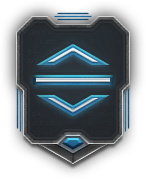
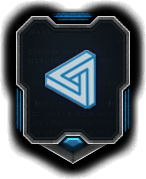
updated tier system

diff --git a/src/components/AirDrop/Tiers.tsx b/src/components/AirDrop/Tiers.tsx
@@ -20,13 +20,6 @@ import Tier7 from '../../assets/airdrop/arb_airdrop/Tier_7.png'
 import Tier8 from '../../assets/airdrop/arb_airdrop/Tier_8.png'
 import Tier9 from '../../assets/airdrop/arb_airdrop/Tier_9.png'
 import Tier10 from '../../assets/airdrop/arb_airdrop/Tier_10.png'
-import Tier11 from '../../assets/airdrop/arb_airdrop/Tier_11.png'
-import Tier12 from '../../assets/airdrop/arb_airdrop/Tier_12.png'
-import Tier13 from '../../assets/airdrop/arb_airdrop/Tier_13.png'
-import Tier14 from '../../assets/airdrop/arb_airdrop/Tier_14.png'
-import Tier15 from '../../assets/airdrop/arb_airdrop/Tier_15.png'
-import Tier16 from '../../assets/airdrop/arb_airdrop/Tier_16.png'
-import Tier17 from '../../assets/airdrop/arb_airdrop/Tier_17.png'
 
 const PointsEarnedWrapper = styled.div<{ blur?: boolean }>`
   width: fit-content;
@@ -101,6 +94,43 @@ const Tiers = () => {
   const prevData = useStoredData(addresses)
   const isArb = SupportedChainId.ARBITRUM_ONE === chainId
 
+  function SelectTier(numOfUsers: number, index: number) {
+    const tier1 = numOfUsers
+    const tier2 = Math.round(numOfUsers * 0.5)
+    const tier3 = numOfUsers - Math.round(numOfUsers * 0.6)
+    const tier4 = numOfUsers - Math.round(numOfUsers * 0.7)
+    const tier5 = numOfUsers - Math.round(numOfUsers * 0.8)
+    const tier6 = numOfUsers - Math.round(numOfUsers * 0.85)
+    const tier7 = numOfUsers - Math.round(numOfUsers * 0.9)
+    const tier8 = numOfUsers - Math.round(numOfUsers * 0.94)
+    const tier9 = numOfUsers - Math.round(numOfUsers * 0.97)
+    const tier10 = numOfUsers - Math.round(numOfUsers * 0.99)
+
+    if (index <= tier1 && index > tier2) {
+      return 1
+    } else if (index <= tier2 && index > tier3) {
+      return 2
+    } else if (index <= tier3 && index > tier4) {
+      return 3
+    } else if (index <= tier4 && index > tier5) {
+      return 4
+    } else if (index <= tier5 && index > tier6) {
+      return 5
+    } else if (index <= tier6 && index > tier7) {
+      return 6
+    } else if (index <= tier7 && index > tier8) {
+      return 7
+    } else if (index <= tier8 && index > tier9) {
+      return 8
+    } else if (index <= tier9 && index > tier10) {
+      return 9
+    } else if (index <= tier10) {
+      return 10
+    } else {
+      return 0
+    }
+  }
+
   const userData = useMemo(() => {
     if (!prevData || !chainId || !account) {
       return undefined
@@ -108,39 +138,26 @@ const Tiers = () => {
       //   setLoading(false)
       //   return prevData
     } else {
+      const totalUsers = prevData.length
+
       return prevData
         .filter((obj: any, index: any) => {
           return index === prevData.findIndex((o: any) => obj.trader === o.trader)
         })
         .sort((a: any, b: any) => b.totalPoints - a.totalPoints)
         .map((user: any, index: number) => {
+          const finalTier = SelectTier(totalUsers, index)
           return {
             ...user,
             rank: index + 1,
+            tier: finalTier,
           }
         })
         .find((user: any) => user.trader === account)
     }
   }, [prevData, chainId, account])
-  const tiers = [
-    Tier1,
-    Tier2,
-    Tier3,
-    Tier4,
-    Tier5,
-    Tier6,
-    Tier7,
-    Tier8,
-    Tier9,
-    Tier10,
-    Tier11,
-    Tier12,
-    Tier13,
-    Tier14,
-    Tier15,
-    Tier16,
-    Tier17,
-  ]
+
+  const tiers = [Tier1, Tier2, Tier3, Tier4, Tier5, Tier6, Tier7, Tier8, Tier9, Tier10]
 
   const userTier = useMemo(() => {
     if (!userData) return 0
@@ -150,7 +167,7 @@ const Tiers = () => {
     if (userData.totalPoints > 1000 && userData.totalPoints < 17000) {
       return Number(userData.totalPoints.toString().substring(0, 1))
     } else {
-      return 17
+      return 10
     }
   }, [userData])
 
@@ -163,6 +180,34 @@ const Tiers = () => {
     },
     [selectChain]
   )
+
+  function TopPercentage(tier: number | undefined) {
+    if (!tier) return 0
+    else if (tier === 1) {
+      return 100
+    } else if (tier === 2) {
+      return 50
+    } else if (tier === 3) {
+      return 40
+    } else if (tier === 4) {
+      return 30
+    } else if (tier === 5) {
+      return 20
+    } else if (tier === 6) {
+      return 15
+    } else if (tier === 7) {
+      return 10
+    } else if (tier === 8) {
+      return 6
+    } else if (tier === 9) {
+      return 3
+    } else if (tier === 10) {
+      return 1
+    } else {
+      return 0
+    }
+  }
+
   return (
     <TierWrapper>
       <TierIncorrectChain active={!isArb}>
@@ -171,19 +216,22 @@ const Tiers = () => {
       </TierIncorrectChain>
       <RowStart marginLeft={'5rem'}>
         <ThemedText.MediumHeader fontSize={16} fontWeight={700}>
-          Tier: {userTier}
+          Tier: {userData?.tier}
         </ThemedText.MediumHeader>
         <ThemedText.MediumHeader fontSize={16} fontWeight={700}>
           LMT Rank: {userData?.rank}
         </ThemedText.MediumHeader>
-        <ThemedText.MediumHeader fontSize={16} fontWeight={700}>
+        {/* <ThemedText.MediumHeader fontSize={16} fontWeight={700}>
           Total LMT: {userData?.totalPoints}
+        </ThemedText.MediumHeader> */}
+        <ThemedText.MediumHeader fontSize={16} fontWeight={700}>
+          My Percentage: Top {TopPercentage(userData?.tier)} %
         </ThemedText.MediumHeader>
       </RowStart>
       <TierLogoSectionWrapper blur={!isArb}>
         {tiers.map((tier, index) => (
-          <TierLogoWrapper active={isArb ? index + 1 <= userTier : isArb}>
-            <TierLogo active={isArb ? index + 1 <= userTier : isArb} src={tier} />
+          <TierLogoWrapper active={isArb ? index + 1 <= userData?.tier : isArb}>
+            <TierLogo active={isArb ? index + 1 <= userData?.tier : isArb} src={tier} />
             <ThemedText.BodySecondary>Tier: {index + 1}</ThemedText.BodySecondary>
           </TierLogoWrapper>
         ))}

diff --git a/src/components/PoolSimple/index.tsx b/src/components/PoolSimple/index.tsx
@@ -731,6 +731,8 @@ export default function SimplePool() {
     }
   }, [isBuyLimweth, parsedTypedValue, wethUsdPrice, limWethUsdPrice, computedOutput])
 
+  console.log('chain', chainId)
+
   // note that LLP decimal is 18, weth is 18, btc is 8, usdc is 6. they are in the currency object
 
   // Total Supply is raw supply
@@ -932,6 +934,8 @@ export default function SimplePool() {
             />
             {!account ? (
               <ButtonBlue onClick={openConnectModal} text="Connect Wallet" />
+            ) : !(chainId === SupportedChainId.ARBITRUM_ONE || chainId === SupportedChainId.BASE) ? (
+              <ButtonBlue onClick={openConnectModal} text="Connect To Supported Newtork" />
             ) : inputError ? (
               inputError
             ) : parsedTypedValue && vaultApprovalState !== ApprovalState.APPROVED ? (

diff --git a/src/components/ExchangeChart/PoolStats.tsx b/src/components/ExchangeChart/PoolStats.tsx
@@ -55,9 +55,6 @@ export function PoolStatsSection({
     return getAddress(address0, address1, fee, chainId)
   }, [chainId, address0, address1, fee])
 
-  console.log('add0', address0)
-  console.log('add1', address1)
-
   const { data: token0UsdPrice } = useCurrentTokenPriceData(address0)
   const { data: token1UsdPrice } = useCurrentTokenPriceData(address1)
   const usdPrice = useMemo(() => {
